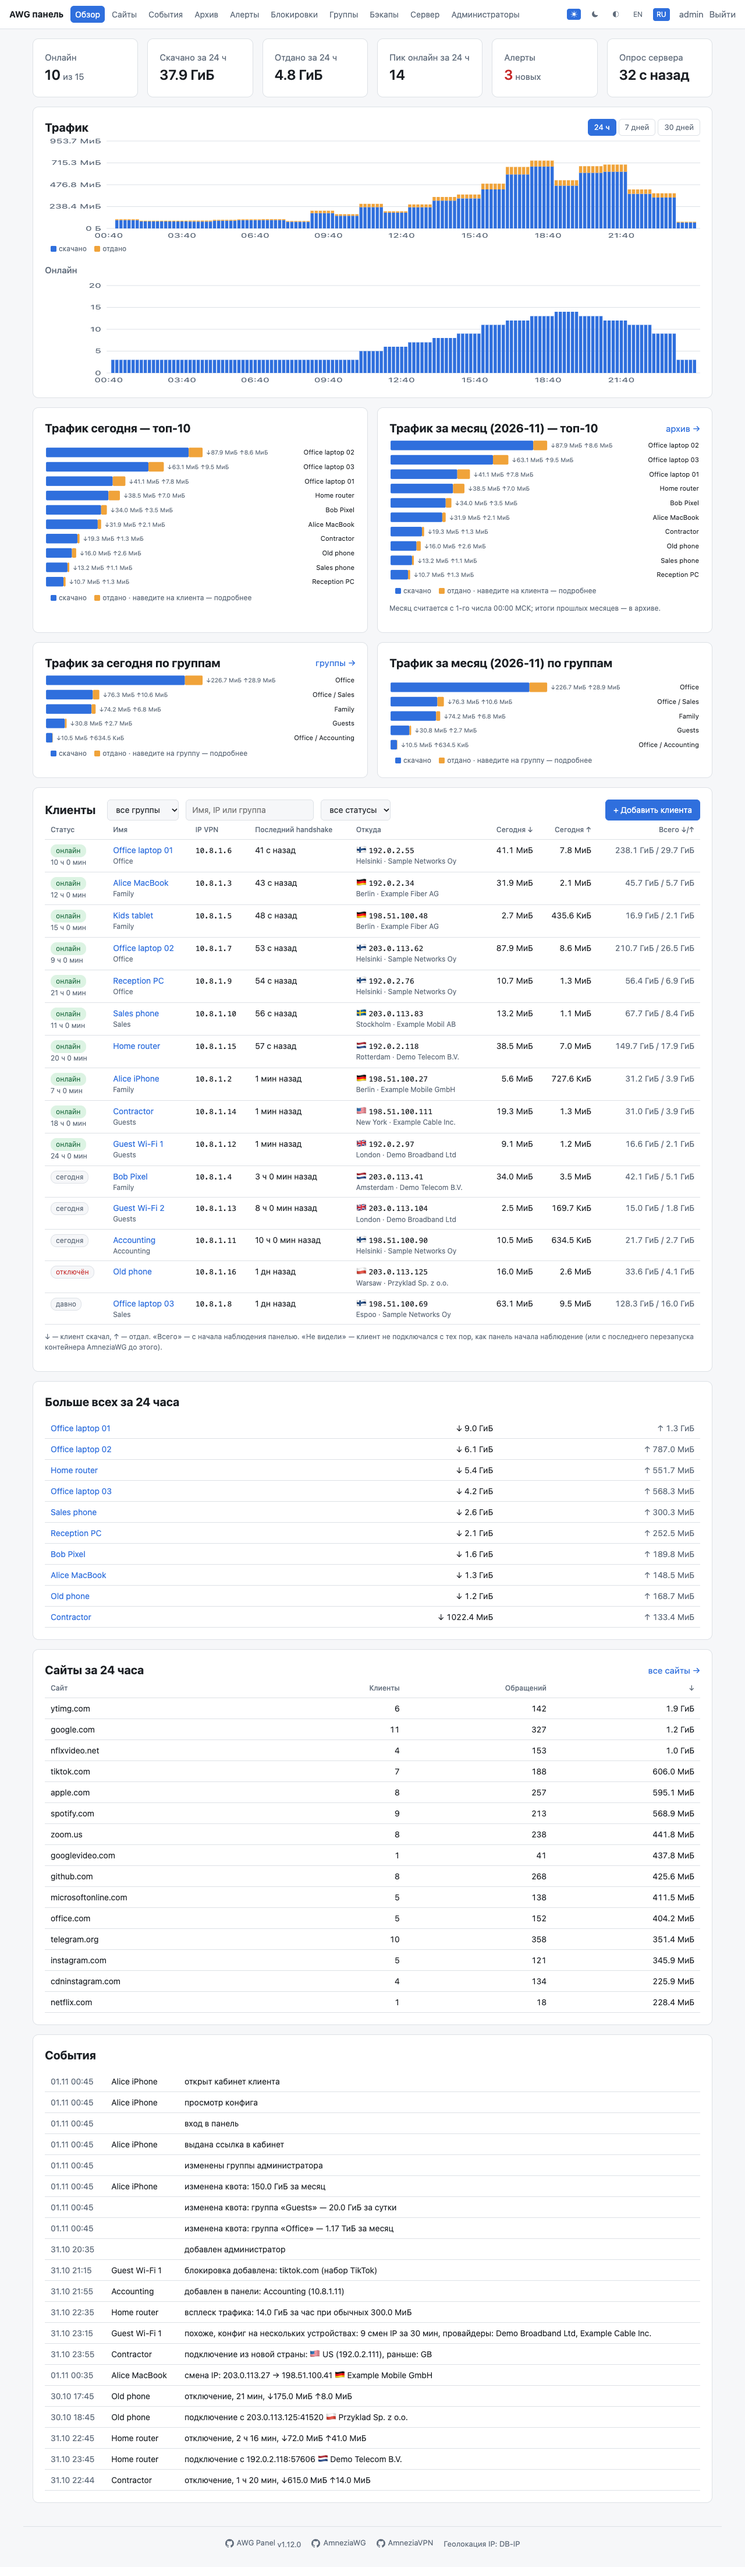
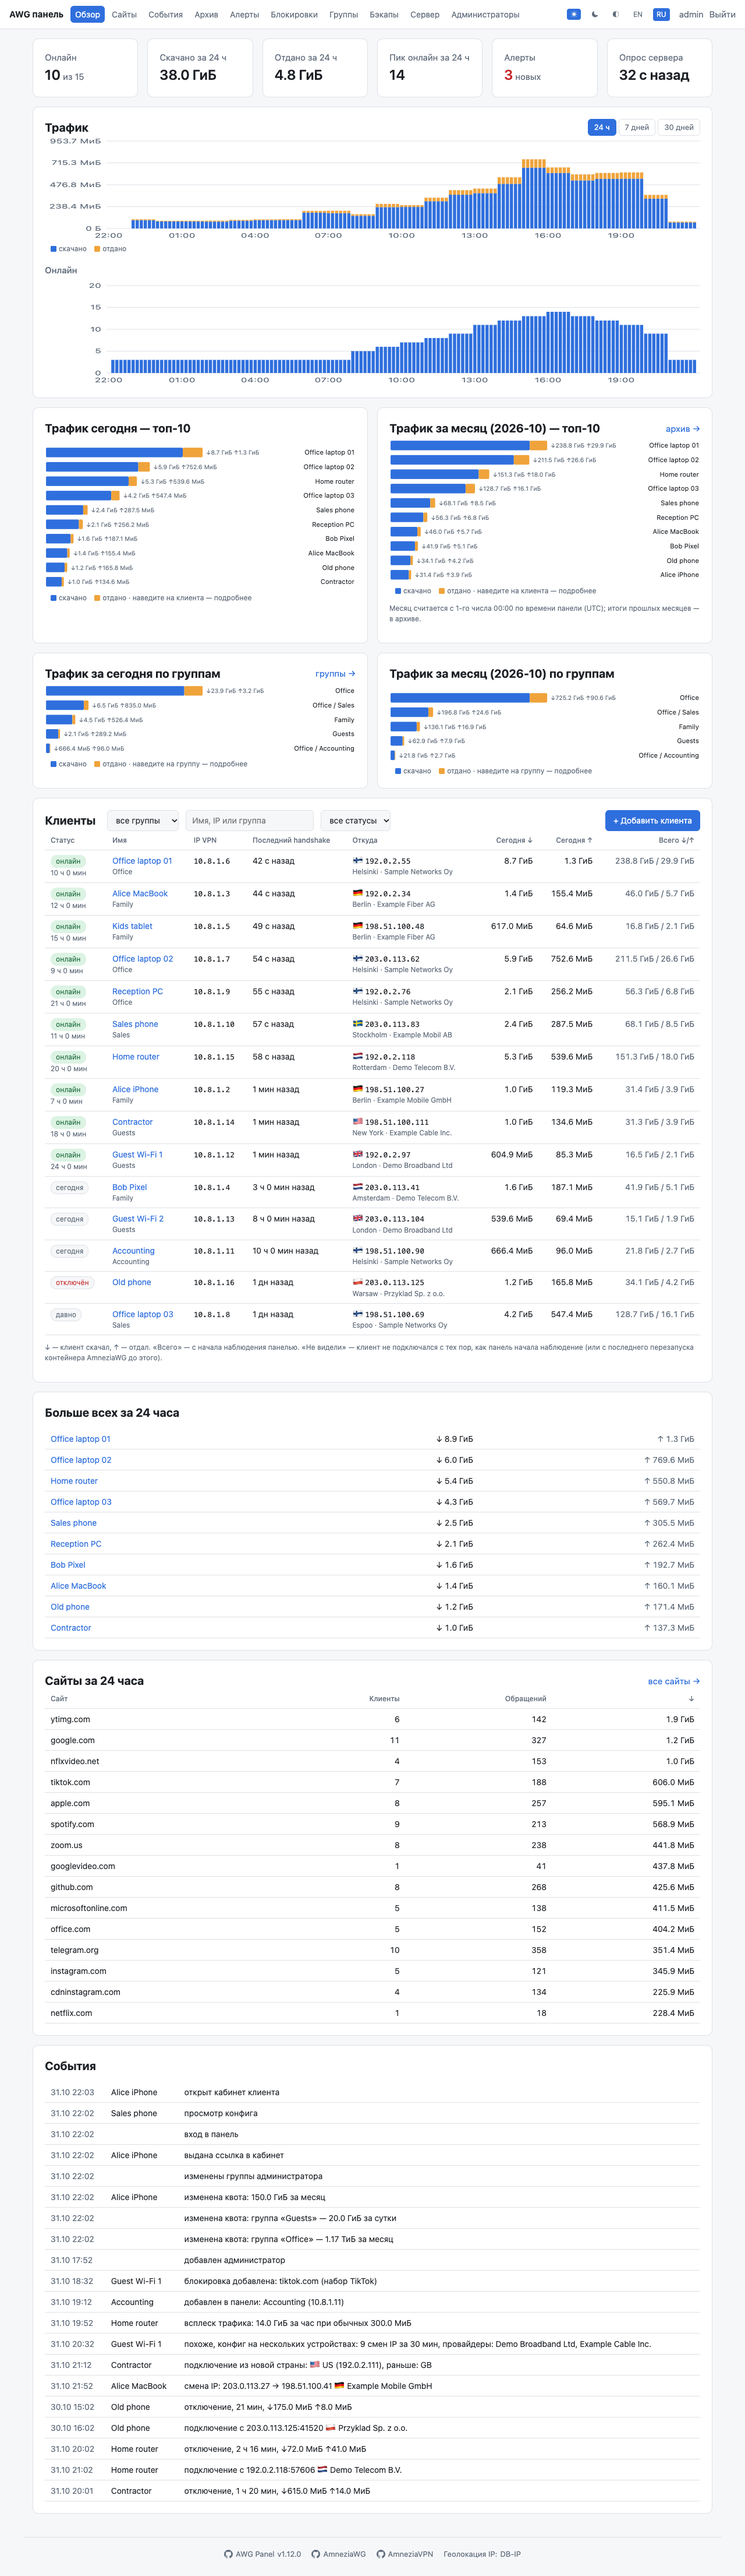
1.13.0: group breadcrumbs, neutral time zone captions, footer alignment

diff --git a/panel/app/templates/archive.html b/panel/app/templates/archive.html
@@ -7,7 +7,7 @@
     {% include "group_filter.html" %}
     {% if months %}<nav class="tabs">{% for m in months %}<a href="?month={{ m }}" class="{{ 'on' if m == month }}">{{ m }}</a>{% endfor %}</nav>{% endif %}
   </div>
-  {% if not months %}<p class="muted">{{ _("The archive is empty: the first month gets here on the 1st at 00:00 Moscow time.") }}</p>{% else %}
+  {% if not months %}<p class="muted">{{ _("The archive is empty: the first month gets here on the 1st at 00:00 panel time ({tz}).", tz=TZ_LABEL()) }}</p>{% else %}
   <p>{{ _("In {month}: downloaded {down}, uploaded {up}.", month=month, down=total[0]|size, up=total[1]|size) }} <a class="btn" href="/archive/{{ month }}.csv{% if group %}?group={{ group }}{% endif %}">CSV</a></p>
   {% if group_totals|length > 1 %}
   <h2>{{ _("By group") }}</h2>
@@ -25,7 +25,7 @@
       <td class="num">{{ r.tx|size }}</td><td class="num">{{ r.rx|size }}</td><td class="num">{{ r.sessions }}</td><td class="num">{{ r.online_sec|duration }}</td></tr>{% endfor %}
   </table>
   </div>
-  <p class="muted small">{{ _("Totals are fixed on the 1st at 00:00 Moscow time. Data starts when the panel started watching (28.10.2026).") }}</p>
+  <p class="muted small">{{ _("Totals are fixed on the 1st at 00:00 panel time ({tz}). Data starts when the panel started watching.", tz=TZ_LABEL()) }}</p>
   {% endif %}
 </section>
 {% endblock %}

diff --git a/panel/app/static/app.css b/panel/app/static/app.css
@@ -176,7 +176,8 @@ footer { display: flex; flex-wrap: wrap; justify-content: center; align-items: c
          max-width: 1200px; margin: 8px auto 0; border-top: 1px solid var(--border); padding: 18px 16px 28px; }
 footer a { color: var(--muted); }
 footer a:hover { color: var(--text); }
-footer .gh { display: inline-flex; align-items: center; gap: 5px; }
+footer > span, footer .gh { display: inline-flex; align-items: center; gap: 5px; line-height: 20px; }
+footer svg { display: block; flex: none; }
 .tbars .hit { fill: transparent; }
 .tbars a:hover .hit { fill: var(--bg); }
 .tbars .lbl { fill: var(--text); font-size: 11px; }
@@ -218,3 +219,10 @@ footer .gh { display: inline-flex; align-items: center; gap: 5px; }
 .del-form legend { padding: 0 4px; font-weight: 600; }
 .del-form .check input[name="confirm"] { width: 220px; margin: 0; padding: 6px 10px; }
 .del-form p { margin: 0; }
+
+/* хлебные крошки: Все клиенты › Головная › Филиал › клиент */
+.crumbs { display: flex; flex-wrap: wrap; align-items: center; gap: 4px 8px; margin: 0 0 14px; font-size: 14px; line-height: 20px; }
+.crumbs .sep { color: var(--muted); }
+.crumbs [aria-current] { color: var(--muted); }
+.crumbs-row { display: flex; flex-wrap: wrap; justify-content: space-between; gap: 4px 24px; }
+.crumbs.subs { gap: 4px 12px; }

diff --git a/panel/app/templates/index.html b/panel/app/templates/index.html
@@ -1,5 +1,6 @@
 {% extends "base.html" %}
 {% block content %}
+{% if crumbs %}<div class="crumbs-row">{% include "crumbs.html" %}{% if subgroups %}<nav class="crumbs subs" aria-label="{{ _("Subgroups") }}"><span class="muted">{{ _("Subgroups") }}:</span>{% for g in subgroups %}<a href="/?group={{ g.id }}">{{ g.name }}</a>{% endfor %}</nav>{% endif %}</div>{% endif %}
 <section class="kpis">
   <div class="card kpi"><div class="muted">{{ _("Online") }}</div><b>{{ online }}</b><span class="muted"> {{ _("of {n}", n=clients|length) }}</span></div>
   <div class="card kpi"><div class="muted">{{ _("Downloaded, 24 h") }}</div><b>{{ tx24|size }}</b></div>
@@ -23,7 +24,7 @@
 <section class="grid2">
   <div class="card"><h1>{{ _("Traffic today — top 10") }}</h1>{{ top_today|safe }}</div>
   <div class="card"><div class="head"><h1>{{ _("Traffic this month ({month}) — top 10", month=month) }}</h1><a href="/archive">{{ _("archive") }} →</a></div>{{ top_month|safe }}
-    <p class="muted small">{{ _("A month starts on the 1st at 00:00 Moscow time; totals of past months are in the archive.") }}</p></div>
+    <p class="muted small">{{ _("A month starts on the 1st at 00:00 panel time ({tz}); totals of past months are in the archive.", tz=TZ_LABEL()) }}</p></div>
 </section>
 
 {% if groups_bars %}

diff --git a/panel/app/templates/me.html b/panel/app/templates/me.html
@@ -46,7 +46,7 @@
   {% endif %}
   <form method="post" action="/me/prefs" class="prefs"><input type="hidden" name="csrf" value="{{ csrf }}">
     <label class="check"><input type="checkbox" name="daily" value="1" {{ 'checked' if contact.daily }}> {{ _("Daily report as a picture (today's chart and top 10 sites) at") }}
-      <select name="hour" aria-label="{{ _("Hour") }}">{% for h in range(24) %}<option value="{{ h }}" {{ 'selected' if h == contact.daily_hour }}>{{ "%02d:00"|format(h) }}</option>{% endfor %}</select> {{ _("Moscow time") }}</label>
+      <select name="hour" aria-label="{{ _("Hour") }}">{% for h in range(24) %}<option value="{{ h }}" {{ 'selected' if h == contact.daily_hour }}>{{ "%02d:00"|format(h) }}</option>{% endfor %}</select> {{ _("panel time ({tz})", tz=TZ_LABEL()) }}</label>
     <label class="check"><input type="checkbox" name="events" value="1" {{ 'checked' if contact.events }}> {{ _("Notifications: sign-in from a new country, connection from another device, blocking, disabling") }}</label>
     <button type="submit" class="secondary">{{ _("Save") }}</button>
   </form>

diff --git a/panel/app/templates/backups.html b/panel/app/templates/backups.html
@@ -24,7 +24,7 @@ cd awg-full &amp;&amp; ./install.sh</pre>
         <option value="weekly"{% if job.period == "weekly" %} selected{% endif %}>{{ _("every week") }}</option></select>
       <select name="weekday" aria-label="{{ _("Day of week") }}">{% for d in range(7) %}<option value="{{ d }}"{% if job.weekday == d %} selected{% endif %}>{{ _(WEEKDAYS[d]) }}</option>{% endfor %}</select>
       <select name="hour" aria-label="{{ _("Hour") }}">{% for h in range(24) %}<option value="{{ h }}"{% if job.hour == h %} selected{% endif %}>{{ "%02d:00"|format(h) }}</option>{% endfor %}</select>
-      <span class="muted small">{{ _("Moscow time; the day of week is used for weekly backups") }}</span>
+      <span class="muted small">{{ _("panel time ({tz}); the day of week is used for weekly backups", tz=TZ_LABEL()) }}</span>
     </div>
     <h2>{{ _("Where to send") }}</h2>
     <label class="check"><input type="checkbox" name="to_telegram" value="1"{% if job.to_telegram %} checked{% endif %}> Telegram

diff --git a/panel/app/templates/groups.html b/panel/app/templates/groups.html
@@ -83,7 +83,7 @@
   <h1>{{ _("Add a group") }}</h1>
   <form method="post" action="/groups/add" class="row-form">
     <input type="hidden" name="csrf" value="{{ csrf }}">
-    <input name="name" required maxlength="64" placeholder="{{ _("Name, e.g. Office Moscow") }}" aria-label="{{ _("Name") }}">
+    <input name="name" required maxlength="64" placeholder="{{ _("Name, e.g. Head office") }}" aria-label="{{ _("Name") }}">
     <input name="note" maxlength="200" placeholder="{{ _("Note") }}" aria-label="{{ _("Note") }}">
     {% set sel = None %}{% set parents = rows %}{% include "parent_select.html" %}
     <button type="submit">{{ _("Add") }}</button>

diff --git a/panel/app/templates/config.html b/panel/app/templates/config.html
@@ -1,7 +1,7 @@
 {% extends "base.html" %}
 {% block title %}{{ _("Config") }}: {{ cfg.name }} — {{ _("AWG panel") }}{% endblock %}
 {% block content %}
-<p><a href="/peer/{{ peer_id }}">← {{ cfg.name }}</a></p>
+{% include "crumbs.html" %}
 {% if cfg.disabled %}<div class="flash flash-error">{{ _("The client is disabled: the config will not work until it is enabled.") }}</div>{% endif %}
 
 <section class="card" id="send">

diff --git a/panel/app/templates/crumbs.html b/panel/app/templates/crumbs.html
@@ -1,0 +1,1 @@
+{% if crumbs %}<nav class="crumbs" aria-label="{{ _("Breadcrumbs") }}">{% for label, href in crumbs %}{% if not loop.first %}<span class="sep">›</span>{% endif %}{% if href and not loop.last %}<a href="{{ href }}">{{ label }}</a>{% else %}<span{% if loop.last %} aria-current="page"{% endif %}>{{ label }}</span>{% endif %}{% endfor %}</nav>{% endif %}

diff --git a/panel/app/templates/peer.html b/panel/app/templates/peer.html
@@ -1,7 +1,7 @@
 {% extends "base.html" %}
 {% block title %}{{ peer.name }} — {{ _("AWG panel") }}{% endblock %}
 {% block content %}
-<p><a href="/">← {{ _("All clients") }}</a></p>
+{% include "crumbs.html" %}
 
 <section class="card">
   <div class="head">

diff --git a/panel/app/main.py b/panel/app/main.py
@@ -161,6 +161,15 @@ def group_choices(request: Request) -> list:
     return [g for g in groups.all_groups(request.app.state.db) if allowed is None or g["id"] in allowed]
 
 
+def crumbs(request: Request, group_id: int | None, *tail: tuple[str, str | None]) -> list[tuple[str, str | None]]:
+    """Хлебные крошки: «Все клиенты › Головная › Филиал › …». Группы выше видимых администратору — без ссылки."""
+    allowed = allowed_groups(request)
+    out: list[tuple[str, str | None]] = [(t("All clients"), "/")]
+    for g in groups.chain(request.app.state.db, group_id):
+        out.append((g["name"], f"/?group={g['id']}" if allowed is None or g["id"] in allowed else None))
+    return out + list(tail)
+
+
 def manageable_groups(request: Request) -> set[int] | None:
     """Группы, которые администратор может переименовать, перенести и удалить: None — все (супер-администратор);
     администратору группы — подгруппы назначенных ему групп (сами назначенные группы меняет супер-администратор)."""
@@ -456,6 +465,8 @@ def index(request: Request, days: int = 1, group: str = ""):
                   groups_bars=(group_bars(conn, g_rows, now, False), group_bars(conn, g_rows, now, True)) if g_rows else None,
                   events=events, poll=poller.status if poller else None, now=now, days=days, peak=peak, alerts=alerts,
                   top_clients=top_clients, group=group, group_list=group_choices(request),
+                  crumbs=crumbs(request, int(group)) if group.isdigit() and group != "0" else None,
+                  subgroups=[g for g in group_choices(request) if group.isdigit() and g["parent_id"] == int(group)],
                   traffic_chart=charts.bars(charts.traffic_series(conn, since, now, bucket, vp), fmt.TZ, label),
                   online_chart=charts.bars(online_series, fmt.TZ, label, bytes_axis=False, legend=(t("online"), "")),
                   top_sites=sites(conn, now - 86400, vp, limit=15) if settings.collect_hosts else [])
@@ -581,7 +592,8 @@ def peer_page(request: Request, peer_id: int, days: int = 1):
         x["blocked"] = any(rule_matches(r["kind"], r["value"], n) for r in active for n in x["names"] | {x["site"]})
     bucket, label = charts.RANGES[days]
     contact = portal.contact(conn, peer_id)
-    return render(request, "peer.html", contact=contact, portal_on=extra_portal(conn, peer_id),
+    return render(request, "peer.html", crumbs=crumbs(request, extra["group_id"], (peer["name"], None)),
+                  contact=contact, portal_on=extra_portal(conn, peer_id),
                   group_list=group_choices(request), peer_group=pg, quota=quota, group_quota=group_quota,
                   portal_config=conn.execute("SELECT portal_config FROM peers WHERE id = ?", (peer_id,)).fetchone()[0],
                   notifier=request.app.state.notifier, peer=peer, extra=extra, sessions=sessions, endpoints=endpoints,
@@ -628,7 +640,9 @@ def peer_config(request: Request, peer_id: int):
     db.event(conn, "admin_config_view", peer_id, None, current_user(request), client_ip(request))
     link = request.session.pop("botlink", None)
     n = notifier(request)
-    return render(request, "config.html", peer_id=peer_id, cfg=cfg, contact=portal.contact(conn, peer_id),
+    gid = conn.execute("SELECT group_id FROM peers WHERE id = ?", (peer_id,)).fetchone()[0]
+    return render(request, "config.html", crumbs=crumbs(request, gid, (cfg["name"], f"/peer/{peer_id}"), (t("Config"), None)),
+                  peer_id=peer_id, cfg=cfg, contact=portal.contact(conn, peer_id),
                   tg_bot=tg_bot_name(request), email_on=n.email_on,
                   botlink=link["url"] if link and link.get("peer") == peer_id else None)
 

diff --git a/tools/screenshots.py b/tools/screenshots.py
@@ -40,8 +40,8 @@ UA = "awg-panel-screenshots"   # сессия панели привязана к
 # страница → (адрес, подпись для README)
 PAGES = [
     ("overview", "/", "Overview"),
-    ("client", "/peer/1", "Client card"),
-    ("config", "/peer/1/config", "Config, QR and sending"),
+    ("client", "/peer/9", "Client card"),
+    ("config", "/peer/9/config", "Config, QR and sending"),
     ("sites", "/hosts?days=7", "Sites"),
     ("events", "/events", "Events"),
     ("archive", "/archive", "Monthly archive"),
@@ -274,7 +274,7 @@ def main() -> None:
     from app import auth
     pw = "demo-password-123"
     os.environ.update(PANEL_DATA=str(tmp), ADMIN_USER="admin", ADMIN_PASSWORD_HASH=auth.hash_password(pw), TOTP_SECRET=secret,
-                      SESSION_SECRET="s" * 48, COOKIE_SECURE="false", PANEL_COLLECTORS="0", TZ="Europe/Moscow",
+                      SESSION_SECRET="s" * 48, COOKIE_SECURE="false", PANEL_COLLECTORS="0", TZ="UTC",
                       PANEL_HOST="203.0.113.10", PUBLIC_HOST="203.0.113.10")
     import httpx
     import uvicorn
@@ -284,9 +284,10 @@ def main() -> None:
     conn = db.open_db(panel.settings.db_path)
     seed(conn, now, auth.hash_password(pw), load_fernet(panel.settings))
     from app.manage import gen_keypair
-    priv, pub = gen_keypair()   # у демо-клиента 1 есть ключ — для страницы конфига
-    conn.execute("UPDATE peers SET pubkey = ?, private_key_enc = ? WHERE id = 1",
-                 (pub, load_fernet(panel.settings).encrypt(priv.encode())))
+    for pid in (1, 9):          # у демо-клиентов 1 (кабинет) и 9 (подгруппа Sales) есть ключ — для страницы конфига
+        priv, pub = gen_keypair()
+        conn.execute("UPDATE peers SET pubkey = ?, private_key_enc = ?, source = 'panel' WHERE id = ?",
+                     (pub, load_fernet(panel.settings).encrypt(priv.encode()), pid))
     portal.contact(conn, 1)
     conn.execute("UPDATE contacts SET tg_chat_id = 1, tg_name = '@alice' WHERE peer_id = 1")
     portal_token = portal.issue_link(conn, 1, "admin", None)

diff --git a/panel/tests/test_groups.py b/panel/tests/test_groups.py
@@ -126,18 +126,18 @@ def test_super_admin_group_filter_and_management(client):
         conn.execute("INSERT INTO peers (id, pubkey, name, ip) VALUES (?, ?, ?, ?)", (pid, f"k{pid}", name, f"10.8.1.{pid}"))
     _login(client)
     tok = _csrf(client.get("/groups").text)
-    client.post("/groups/add", data={"csrf": tok, "name": "  Офис   Москва ", "note": "n"})
+    client.post("/groups/add", data={"csrf": tok, "name": "  Головной   офис ", "note": "n"})
     g = conn.execute("SELECT * FROM groups").fetchone()
-    assert g["name"] == "Офис Москва"
-    assert "already exists" in client.post("/groups/add", data={"csrf": tok, "name": "офис москва"}).text
+    assert g["name"] == "Головной офис"
+    assert "already exists" in client.post("/groups/add", data={"csrf": tok, "name": "головной офис"}).text
     client.post("/peer/1/group", data={"csrf": tok, "group_id": str(g["id"])})
     page = client.get(f"/?group={g['id']}").text
     assert "Анна" in page and "Вера" not in page
-    assert re.search(r'Анна</a><div class="muted small">Офис Москва</div>', page)      # группа под именем
+    assert re.search(r'Анна</a><div class="muted small">Головной офис</div>', page)      # группа под именем
     page = client.get("/?group=0").text
     assert "Вера" in page and "Анна" not in page
     gp = client.get("/groups").text
-    assert "Офис Москва" in gp and f'href="/groups?edit={g["id"]}#edit"' in gp and f'href="/groups?delete={g["id"]}#edit"' in gp
+    assert "Головной офис" in gp and f'href="/groups?edit={g["id"]}#edit"' in gp and f'href="/groups?delete={g["id"]}#edit"' in gp
     assert 'id="edit"' not in gp and 'id="edit"' in client.get(f"/groups?edit={g['id']}").text
     assert 'name="with_clients"' in client.get(f"/groups?delete={g['id']}").text
     client.post(f"/groups/{g['id']}/delete", data={"csrf": tok})
